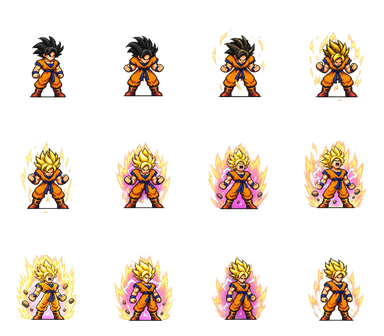
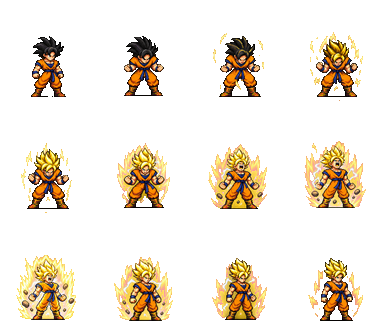
Hero: remove purple/pink pixels, SSJ breathing idle, larger on screen
- scripts/clean_hero_fringe.py: replaces leftover mid-tone purple
  pixels with neighbouring palette colours, turns the violet silhouette
  outline neutral dark brown, and recolours the pink haze in the
  Super Saiyan transformation to gold with hard alpha.
- scripts/build_ssj_idle_breath.py: the SSJ idle was one held pose per
  direction; it is now a 6-frame breathing loop derived from that pose.
- Camera zoomed in about 12% and Goku drawn 5% larger; Bulma, Piccolo
  and Raditz scaled to match.

Claude-Session: https://claude.ai/code/session_01GGH8KZ2EfKC5whakCELbJr

diff --git a/index.html b/index.html
@@ -558,7 +558,7 @@
 <script src="ki-audio.js?v=1"></script><script src="campaign-cast.js?v=detailed-npcs-1"></script><script src="campaign/dialogue.js?v=2"></script><script src="overworld.js?v=3"></script><script src="explore.js?v=1"></script><script src="assets/campaign-cast/raditz/raditz-manifest.js?v=1"></script><script src="story-mode.js?v=5"></script><script src="assets/hero-animation/manifest.js?v=campaign-merge-1"></script><script src="ssj-unified-layout.js?v=unified-20261123"></script><script src="animation.js?v=172a878"></script><script src="https://cdn.jsdelivr.net/npm/jszip@3.10.1/dist/jszip.min.js"></script><script src="pixel-aura.js?v=1da9d73"></script>
 <script>
 (()=>{'use strict';const root=document.getElementById('kfg'),cv=root.querySelector('canvas'),MW=window.KiWorld?.W||2760,MH=window.KiWorld?.H||560,VW=2760,VH=560;let c=cv.getContext('2d');let W=240,H=160;const spr=new Image();spr.src='assets/fighter-motion.webp';const held=new Set(),btns=root.querySelectorAll('[data-a]'),modal=root.querySelector('#kfmodal'),title=root.querySelector('#kftitle'),desc=root.querySelector('#kfdesc');let player,enemies=[],fallen=[],balls=[],fx=[],enemyShots=[],kills=0,mode='title',last=0,now=0,storyClock=0,shake=0,msg='',messageTimer=0;const rnd=(a,b)=>a+Math.random()*(b-a),hyp=(x,y)=>Math.hypot(x,y),lim=(v,a,b)=>Math.max(a,Math.min(b,v)),fill=(x,y,w,h,col,g=c)=>{g.fillStyle=col;g.fillRect(Math.round(x),Math.round(y),Math.round(w),Math.round(h))};
-function resize(){let r=root.getBoundingClientRect();if(r.width<10)return;W=Math.round(lim(192+(r.width-650)*.07,192,240));H=lim(Math.round(W*r.height/r.width),108,MH);const density=Math.min(2,window.devicePixelRatio||1);/* >2x costs fill rate, no visible gain for pixel art */cv.width=Math.max(W*2,Math.round(r.width*density));cv.height=Math.max(H*2,Math.round(r.height*density));c.imageSmoothingEnabled=false}resize();window.addEventListener('resize',resize);if(window.ResizeObserver)new ResizeObserver(resize).observe(root);
+function resize(){let r=root.getBoundingClientRect();if(r.width<10)return;W=Math.round(lim(170+(r.width-650)*.062,170,212));H=lim(Math.round(W*r.height/r.width),108,MH);const density=Math.min(2,window.devicePixelRatio||1);/* >2x costs fill rate, no visible gain for pixel art */cv.width=Math.max(W*2,Math.round(r.width*density));cv.height=Math.max(H*2,Math.round(r.height*density));c.imageSmoothingEnabled=false}resize();window.addEventListener('resize',resize);if(window.ResizeObserver)new ResizeObserver(resize).observe(root);
 const mentor={x:157,y:251,world:'mentor'};
 const shrine={x:928,y:274,world:'shrine',w:45,h:54,solidW:29,solidH:18};
 const dojoMaster={x:1255,y:197,world:'dojo-master',w:18,h:30,solidW:0,solidH:0};
@@ -3508,10 +3508,10 @@ function drawDetailedSsj(o){
   c.drawImage(art,source.x+(frame%4)*cellW,source.y+Math.floor(frame/4)*cellH,cellW,cellH,-size/2,4-size-bob,size,size);
 }
 const packedHeroAtlas=new Image();
-packedHeroAtlas.src='assets/hero-animation/body-atlas.png?v=campaign-merge-1';
+packedHeroAtlas.src='assets/hero-animation/body-atlas.png?v=clean-2';
 const packedTransformationAtlas=new Image();
-packedTransformationAtlas.src='assets/hero-animation/transformation-fit.png';
-const packedHeroScale=approvedCell*approvedScale/96*1.10;
+packedTransformationAtlas.src='assets/hero-animation/transformation-fit.png?v=clean-2';
+const packedHeroScale=approvedCell*approvedScale/96*1.16;
 const packedHeroHeightRatio=1.05;
 const packedHeroHeightScale=packedHeroScale*packedHeroHeightRatio;
 const packedHeroFacings=['right','downRight','down','downLeft','left','upLeft','up','upRight'];

diff --git a/assets/hero-animation/manifest.js b/assets/hero-animation/manifest.js
@@ -543,21 +543,36 @@ window.KiHeroManifest = {
           loop: true,
           effectOwnership: "separate",
           frames: [
-            {"sheet": "body-atlas.png", "rect": [128, 1440, 64, 96], "durationMs": 170, "feet": [32, 86]},
+            {"sheet": "body-atlas.png", "rect": [128, 1440, 64, 96], "durationMs": 260, "feet": [32, 86]},
+            {"sheet": "body-atlas.png", "rect": [0, 1152, 64, 96], "durationMs": 170, "feet": [32, 86]},
+            {"sheet": "body-atlas.png", "rect": [64, 1152, 64, 96], "durationMs": 220, "feet": [32, 86]},
+            {"sheet": "body-atlas.png", "rect": [64, 1152, 64, 96], "durationMs": 160, "feet": [32, 86]},
+            {"sheet": "body-atlas.png", "rect": [0, 1152, 64, 96], "durationMs": 170, "feet": [32, 86]},
+            {"sheet": "body-atlas.png", "rect": [128, 1440, 64, 96], "durationMs": 240, "feet": [32, 86]},
           ],
         },
         right: {
           loop: true,
           effectOwnership: "separate",
           frames: [
-            {"sheet": "body-atlas.png", "rect": [576, 1440, 64, 96], "durationMs": 170, "feet": [32, 86]},
+            {"sheet": "body-atlas.png", "rect": [576, 1440, 64, 96], "durationMs": 260, "feet": [32, 86]},
+            {"sheet": "body-atlas.png", "rect": [128, 1152, 64, 96], "durationMs": 170, "feet": [32, 86]},
+            {"sheet": "body-atlas.png", "rect": [192, 1152, 64, 96], "durationMs": 220, "feet": [32, 86]},
+            {"sheet": "body-atlas.png", "rect": [192, 1152, 64, 96], "durationMs": 160, "feet": [32, 86]},
+            {"sheet": "body-atlas.png", "rect": [128, 1152, 64, 96], "durationMs": 170, "feet": [32, 86]},
+            {"sheet": "body-atlas.png", "rect": [576, 1440, 64, 96], "durationMs": 240, "feet": [32, 86]},
           ],
         },
         up: {
           loop: true,
           effectOwnership: "separate",
           frames: [
-            {"sheet": "body-atlas.png", "rect": [256, 1536, 64, 96], "durationMs": 170, "feet": [32, 86]},
+            {"sheet": "body-atlas.png", "rect": [256, 1536, 64, 96], "durationMs": 260, "feet": [32, 86]},
+            {"sheet": "body-atlas.png", "rect": [256, 1152, 64, 96], "durationMs": 170, "feet": [32, 86]},
+            {"sheet": "body-atlas.png", "rect": [320, 1152, 64, 96], "durationMs": 220, "feet": [32, 86]},
+            {"sheet": "body-atlas.png", "rect": [320, 1152, 64, 96], "durationMs": 160, "feet": [32, 86]},
+            {"sheet": "body-atlas.png", "rect": [256, 1152, 64, 96], "durationMs": 170, "feet": [32, 86]},
+            {"sheet": "body-atlas.png", "rect": [256, 1536, 64, 96], "durationMs": 240, "feet": [32, 86]},
           ],
         },
       },

diff --git a/story-mode.js b/story-mode.js
@@ -190,7 +190,7 @@ function marker(n){
  return '';
 }
 // ---- Raditz sprite pack (KiRaditzManifest): 4 directions, feet at (32,88)
-const RADITZ_SCALE=.6;
+const RADITZ_SCALE=.63;
 function dir4(angle){
  const x=Math.cos(angle),y=Math.sin(angle);
  return Math.abs(x)>Math.abs(y)*1.15?(x<0?'left':'right'):(y<0?'up':'down');
@@ -252,7 +252,7 @@ function drawNpc(c,n){
   if(!sprite||!ready(art.npcs))return;
   const dir=!p?'down':Math.abs(p.x-n.x)>Math.abs(p.y-n.y)*1.3?(p.x<n.x?'left':'right'):(p.y<n.y?'up':'down');
   const frame=root.KFCampaignCast.resolveFrame(sprite,dir,talking===n?'talk':'idle',clock*1000);
-  const [sx,sy,w,h]=frame.rect,scale=.56;
+  const [sx,sy,w,h]=frame.rect,scale=.59;
   c.save();c.translate(n.x,n.y);c.imageSmoothingEnabled=false;
   c.fillStyle='#16291f90';c.beginPath();c.ellipse(0,3,8,3,0,0,Math.PI*2);c.fill();
   c.drawImage(art.npcs,sx,sy,w,h,-frame.feet[0]*scale,-frame.feet[1]*scale,w*scale,h*scale);c.restore();

diff --git a/scripts/clean_hero_fringe.py b/scripts/clean_hero_fringe.py
@@ -1,0 +1,82 @@
+#!/usr/bin/env python3
+"""Remove the remaining purple/pink and soft pixels from the hero art.
+
+body-atlas.png: muted purple pixels left in gi and boot shading by the
+  original colour-key are replaced with the median of their non-purple
+  neighbours (no new art, same silhouette).
+transformation-fit.png: the pink haze in the Super Saiyan transformation
+  is recoloured to the gold of the aura, and alpha is made hard (fully
+  opaque or transparent), so no soft white/pink film sits on the body.
+
+Idempotent. Usage: python3 scripts/clean_hero_fringe.py
+"""
+import colorsys
+import numpy as np
+from PIL import Image
+
+DIR = 'assets/hero-animation/'
+
+
+def purple_mask(a, min_sat, min_val=0):
+    r, g, b = (a[..., i].astype(float) / 255 for i in range(3))
+    mx, mn = np.maximum(np.maximum(r, g), b), np.minimum(np.minimum(r, g), b)
+    sat = np.where(mx > 0, (mx - mn) / np.maximum(mx, 1e-6), 0)
+    # pink/magenta/violet: red and blue both clearly above green
+    return (a[..., 3] > 0) & (r - g > .12) & (b - g > .12) & (sat > min_sat) & (mx > min_val)
+
+
+def clean_body():
+    path = DIR + 'body-atlas.png'
+    a = np.array(Image.open(path).convert('RGBA'))
+    ai = a.astype(int)
+    validator_rule = (ai[..., 3] > 0) & (ai[..., 0] > 80) & (ai[..., 2] > 80) & (ai[..., 1] < np.minimum(ai[..., 0], ai[..., 2]) * .62)
+    bad = purple_mask(a, .2, .42) | validator_rule   # mid-tone purples; the dark outlines stay
+    ys, xs = np.nonzero(bad)
+    out = a.copy()
+    for y, x in zip(ys, xs):
+        y0, y1, x0, x1 = max(0, y - 2), y + 3, max(0, x - 2), x + 3
+        win, ok = a[y0:y1, x0:x1].reshape(-1, 4), (~bad[y0:y1, x0:x1] & (a[y0:y1, x0:x1, 3] > 0)).reshape(-1)
+        if ok.any():
+            # the neighbour colour closest to the median, so no new colour is invented
+            cand = win[ok][:, :3].astype(int)
+            med = np.median(cand, axis=0)
+            out[y, x, :3] = cand[np.argmin(((cand - med) ** 2).sum(1))]
+        else:
+            out[y, x, :3] = (36, 26, 40)
+    # Silhouette outline pixels drawn in dark purple read as a violet fringe
+    # against grass and sand: make them the neutral dark-brown outline.
+    o = out.astype(int)
+    op = o[..., 3] > 0
+    pad = np.pad(op, 1)
+    edge = op & ~(pad[:-2, 1:-1] & pad[2:, 1:-1] & pad[1:-1, :-2] & pad[1:-1, 2:])
+    violet = edge & (o[..., 0] - o[..., 1] > 10) & (o[..., 2] - o[..., 1] > 10)
+    v = o[..., :3].max(-1)
+    shade = np.clip(v, 20, 70)
+    out[violet, 0] = shade[violet]
+    out[violet, 1] = (shade[violet] * .72).astype(np.uint8)
+    out[violet, 2] = (shade[violet] * .7).astype(np.uint8)
+    Image.fromarray(out).save(path, optimize=True)
+    print('body-atlas: replaced', len(ys), 'purple pixels,', int(violet.sum()), 'violet outline pixels')
+
+
+def clean_transformation():
+    path = DIR + 'transformation-fit.png'
+    a = np.array(Image.open(path).convert('RGBA'))
+    pink = purple_mask(a, .03) | ((a[..., 0].astype(int) - a[..., 1] > 14) & (a[..., 2].astype(int) - a[..., 1] > 8) & (a[..., 3] > 0))
+    n = int(pink.sum())
+    for y, x in zip(*np.nonzero(pink)):
+        r, g, b = (a[y, x, :3] / 255)
+        h, s, v = colorsys.rgb_to_hsv(r, g, b)
+        nr, ng, nb = colorsys.hsv_to_rgb(.13, min(1, s * 1.1 + .15), min(1, v * 1.02))
+        a[y, x, :3] = (round(nr * 255), round(ng * 255), round(nb * 255))
+    alpha = a[..., 3]
+    soft = int(((alpha > 0) & (alpha < 255)).sum())
+    a[..., 3] = np.where(alpha >= 128, 255, 0).astype(np.uint8)
+    a[a[..., 3] == 0] = 0
+    Image.fromarray(a).save(path, optimize=True)
+    print('transformation: recoloured', n, 'pink pixels, hardened', soft, 'soft pixels')
+
+
+if __name__ == '__main__':
+    clean_body()
+    clean_transformation()

diff --git a/scripts/build_ssj_idle_breath.py b/scripts/build_ssj_idle_breath.py
@@ -1,0 +1,60 @@
+#!/usr/bin/env python3
+"""Super Saiyan idle breathing loop.
+
+The SSJ idle used to be a single held pose per direction. This derives two
+breathing poses from that same drawing (no new design): A lowers everything
+above the belt by 1 px (exhale), B also lowers the head by one more pixel
+and lifts the hair tips back up, so the spikes stay crisp while the
+shoulders settle. Frames go in free atlas cells; manifest.js gets a 6-frame
+loop base, A, B, B, A, base per direction.
+Idempotent (always rebuilds from the base frames).
+Usage: python3 scripts/build_ssj_idle_breath.py
+"""
+import re
+import numpy as np
+from PIL import Image
+
+DIR = 'assets/hero-animation/'
+BASE = {'down': (128, 1440), 'right': (576, 1440), 'up': (256, 1536)}
+CELLS = {'down': ((0, 12), (1, 12)), 'right': ((2, 12), (3, 12)), 'up': ((4, 12), (5, 12))}
+BELT = 54      # rows above this move with the chest
+NECK = 36      # rows above this are the head and hair
+
+
+def lower(block, top, bottom, px=1):
+    """Move rows [top, bottom) down by px; the uncovered row becomes transparent."""
+    out = block.copy()
+    part = block[top:bottom]
+    out[top + px:bottom + px] = np.where(part[..., 3:4] > 0, part, out[top + px:bottom + px] * (np.arange(bottom - top)[:, None, None] + top + px >= bottom))
+    out[top:top + px] = 0
+    return out
+
+
+def main():
+    atlas = np.array(Image.open(DIR + 'body-atlas.png').convert('RGBA'))
+    for d, (bx, by) in BASE.items():
+        base = atlas[by:by + 96, bx:bx + 64]
+        a = lower(base, 0, BELT)
+        b = lower(a, 0, NECK + 1)
+        for img, (cx, cy) in zip((a, b), CELLS[d]):
+            atlas[cy * 96:cy * 96 + 96, cx * 64:cx * 64 + 64] = img
+    Image.fromarray(atlas).save(DIR + 'body-atlas.png', optimize=True)
+
+    text = open(DIR + 'manifest.js').read()
+    start = text.index('ssj: {')
+    idle = text.index('      idle: {', start)
+    end = text.index('      punch: {', idle)
+    f = lambda x, y, ms: '            {"sheet": "body-atlas.png", "rect": [%d, %d, 64, 96], "durationMs": %d, "feet": [32, 86]},\n' % (x, y, ms)
+    block = '      idle: {\n'
+    for d, (bx, by) in BASE.items():
+        (ax, ay), (bx2, by2) = [(c * 64, r * 96) for c, r in CELLS[d]]
+        block += '        %s: {\n          loop: true,\n          effectOwnership: "separate",\n          frames: [\n' % d
+        block += f(bx, by, 260) + f(ax, ay, 170) + f(bx2, by2, 220) + f(bx2, by2, 160) + f(ax, ay, 170) + f(bx, by, 240)
+        block += '          ],\n        },\n'
+    block += '      },\n'
+    open(DIR + 'manifest.js', 'w').write(text[:idle] + block + text[end:])
+    print('ssj idle: 6-frame breathing loop for', list(BASE))
+
+
+if __name__ == '__main__':
+    main()
